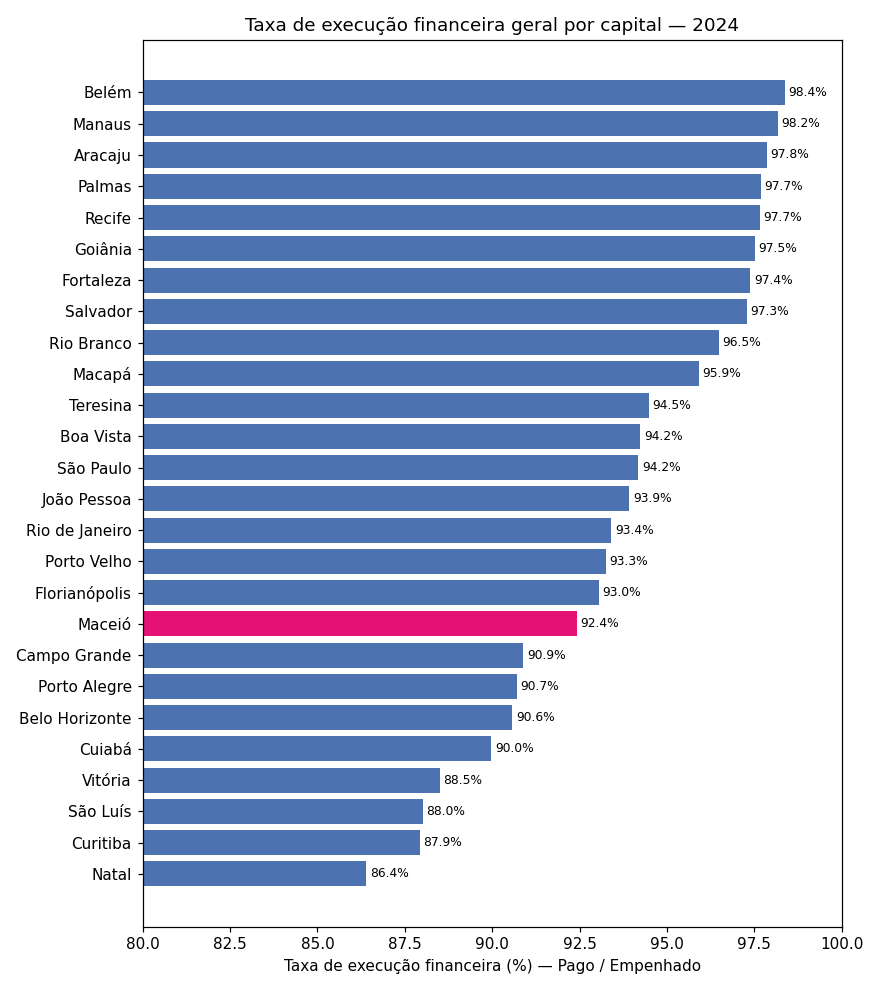
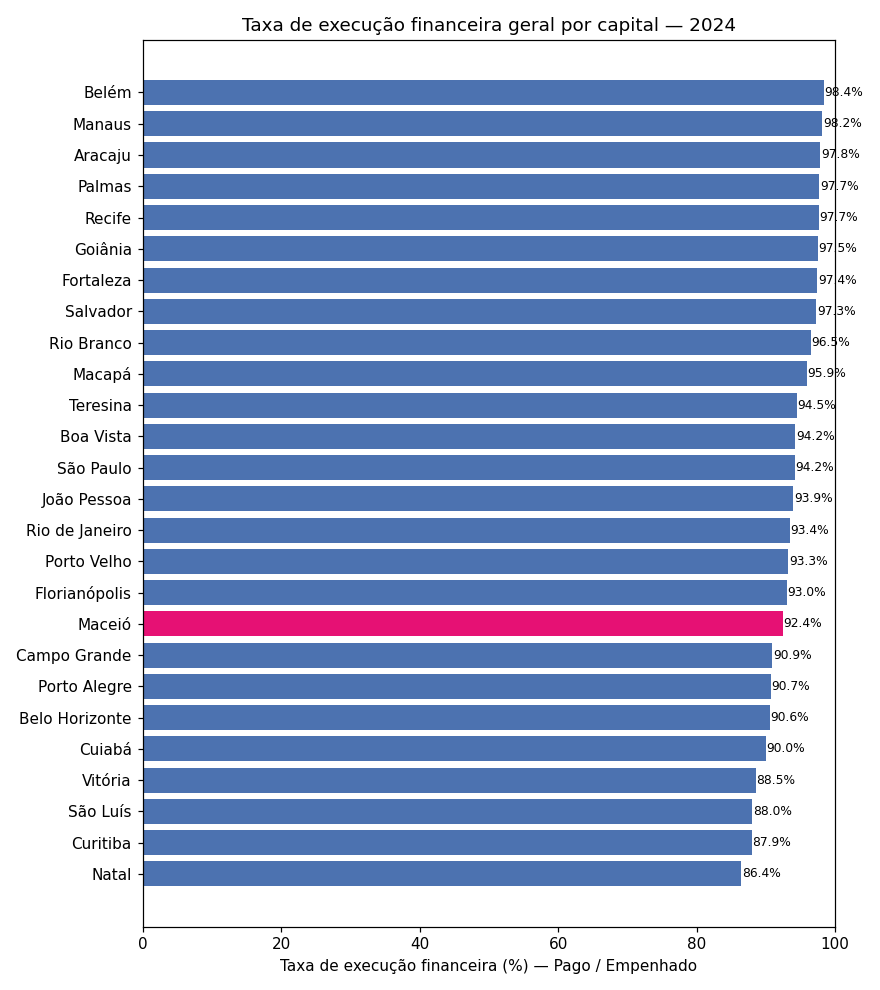
corrige eixo X truncado no gráfico de taxa de execução geral

diff --git a/scripts/gerar_graficos.py b/scripts/gerar_graficos.py
@@ -19,8 +19,6 @@ COR_OUTRAS = "#4c72b0"
 COR_ACIMA_MEDIA = "#0072B2"   # azul
 COR_ABAIXO_MEDIA = "#E69F00"  # laranja
 
-
-
 def cores_destacando_maceio(labels):
     return [COR_MACEIO if l == "Maceió" else COR_OUTRAS for l in labels]
 
@@ -43,7 +41,7 @@ fig, ax = plt.subplots(figsize=(8, 9))
 ax.barh(df1["capital"], df1["taxa"], color=cores_destacando_maceio(df1["capital"]))
 ax.set_xlabel("Taxa de execução financeira (%) — Pago / Empenhado")
 ax.set_title("Taxa de execução financeira geral por capital — 2024")
-ax.set_xlim(80, 100)
+ax.set_xlim(0, 100)
 for i, v in enumerate(df1["taxa"]):
     ax.text(v + 0.1, i, f"{v:.1f}%", va="center", fontsize=8)
 plt.tight_layout()